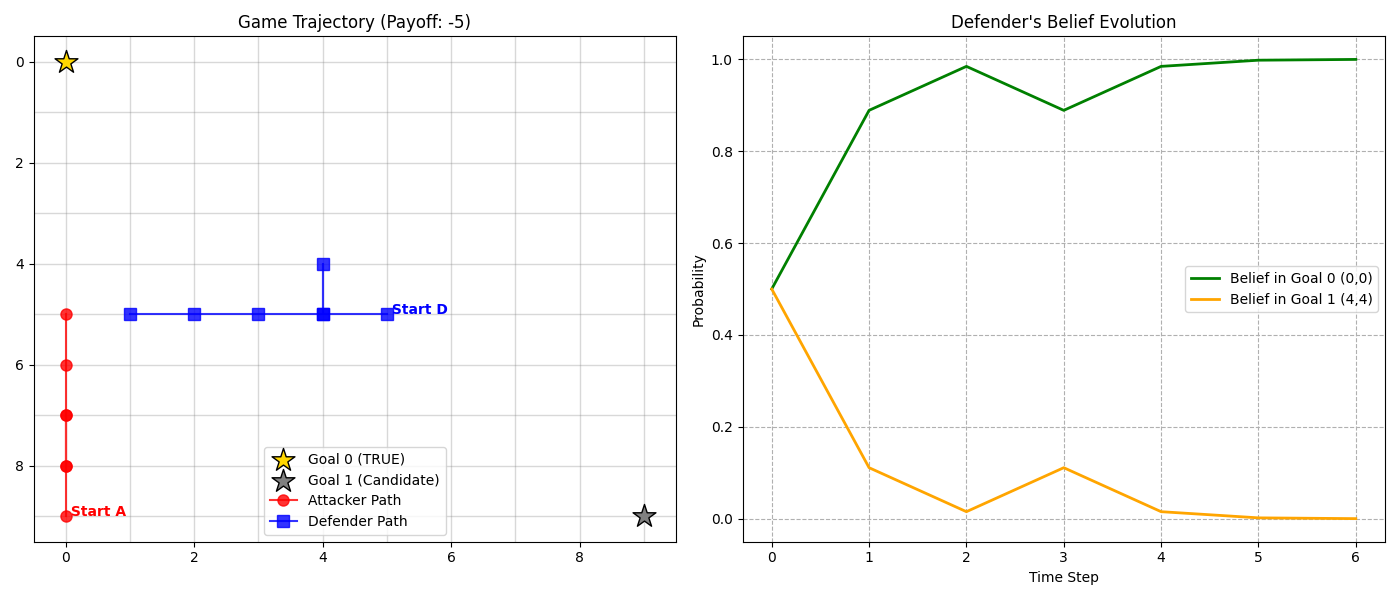
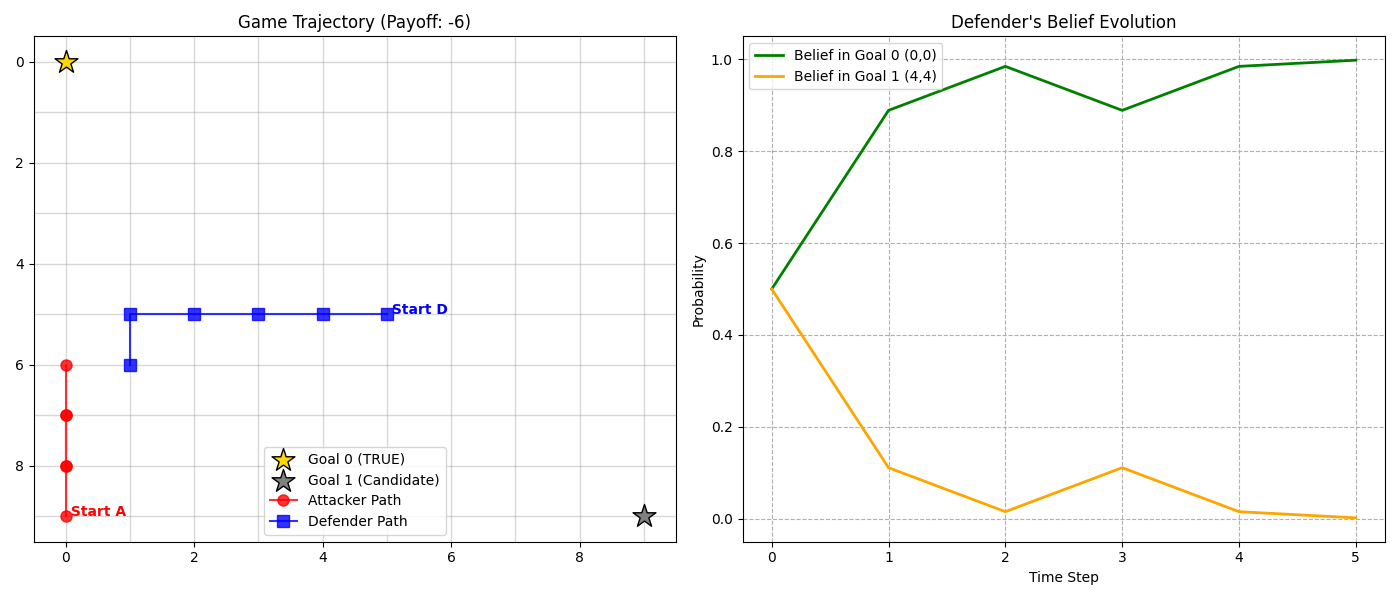
some modification on MCTS algo

diff --git a/MCTS/visualize_game.py b/MCTS/visualize_game.py
@@ -110,9 +110,9 @@ def run_and_visualize():
     steps = 50
     final_payoff = 0
     for s in range(steps):
-        # ==========================================
+
         # PHASE 1: ATTACKER'S TURN
-        # ==========================================
+        
         game.turn = 'attacker'
         a_move = mcts_search(game, root_turn='attacker', iterations=150)
         
@@ -132,7 +132,7 @@ def run_and_visualize():
             belief_history.append(game.beliefs.copy())
             
             final_payoff = payoff
-            # --- NEW FIX ---
+           
             if payoff > 0:
                 print(f"Step {s} (Attacker Reached Goal!): A at {game.a_pos}, D at {game.d_pos}")
             else:
@@ -140,9 +140,9 @@ def run_and_visualize():
             # ---------------
             print(f"Game Over! Final Payoff: {final_payoff}")
             break
-        # ==========================================
+
         # PHASE 2: DEFENDER'S TURN
-        # ==========================================
+
         game.turn = 'defender'
         # Defender searches using the newly updated belief
         d_move = mcts_search(game, root_turn='defender', iterations=150)
@@ -208,7 +208,7 @@ def run_and_visualize():
     ax2.legend()
 
     plt.tight_layout()
-    plt.savefig("simulation_results.png") # Saves for your presentation
+    plt.savefig("simulation_results.png") 
     plt.show()
 
 if __name__ == "__main__":

diff --git a/MCTS/toy_sim_MCTS_v2.py b/MCTS/toy_sim_MCTS_v2.py
@@ -12,7 +12,7 @@ class ReachAvoidGame:
         # State is now clearly defined
         self.a_pos = (size-1, 0)
         # self.d_pos = (0, size-1)
-        self.d_pos = (size//2, size//2)
+        self.d_pos = (size//2, size//2) # Be careful about odd number grid size!!!
         self.beliefs = np.array([0.5, 0.5])
         self.turn = 'attacker' # Alternating turns
 
@@ -34,7 +34,7 @@ class ReachAvoidGame:
             d_new = nx.shortest_path_length(self.graph, new_a, g)
             
             if d_new < d_old:
-                prob = 0.8  # Move is explicit/consistent with this goal
+                prob = 0.8  # Move is consistent with this goal
             elif d_new == d_old:
                 prob = 0.5  # Move is ambiguous regarding this goal
             else:
@@ -60,7 +60,7 @@ class ReachAvoidGame:
             
         return new_a, new_d, new_beliefs, next_turn
 
-# --- UPGRADED BELIEF-STATE MCTS ---
+# --- BELIEF-STATE MCTS ---
 class MCTSNode:
     def __init__(self, a_pos, d_pos, beliefs, turn, move=None, parent=None):
         self.a_pos = a_pos
